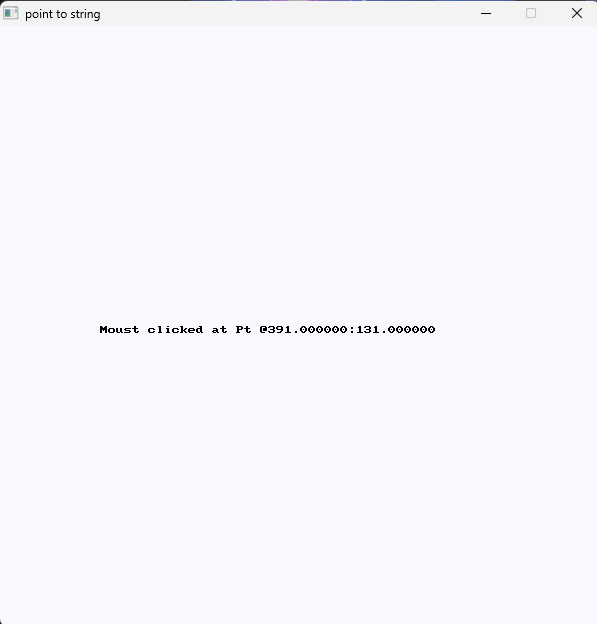
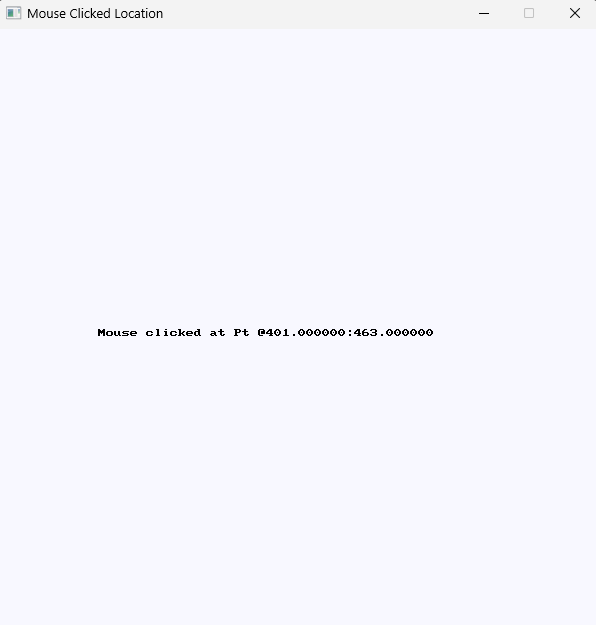
Updated OOP and reformatted code

diff --git a/public/usage-examples/geometry/point_to_string/point_to_string-1-simple-oop.cs b/public/usage-examples/geometry/point_to_string/point_to_string-1-simple-oop.cs
@@ -1,6 +1,5 @@
 using SplashKitSDK;
 
-
 namespace PointToString
 {
     public class Program
@@ -8,28 +7,29 @@ namespace PointToString
         public static void Main()
         {
             // Variable Declaration
-            string click = "Mouse clicked at ";
-            string mouse_pos = "";
+            string ClickMessage = "Mouse clicked at ";
+            string MousePositionText = "";
 
             // Open Window
-            SplashKit.OpenWindow("point to string", 600, 600);
-            SplashKit.ClearScreen(SplashKit.ColorGhostWhite());
+            Window WindowInstance = new Window("Mouse Clicked Location", 600, 600);
+            WindowInstance.Clear(Color.GhostWhite);
 
-            while(!SplashKit.QuitRequested())
+            while (!SplashKit.QuitRequested())
             {
-                // check for mouse click
-                if(SplashKit.MouseClicked(MouseButton.LeftButton))
+                // Check for mouse click
+                if (SplashKit.MouseClicked(MouseButton.LeftButton))
                 { 
-                    mouse_pos = SplashKit.PointToString(SplashKit.MousePosition());
-                    SplashKit.ClearScreen(SplashKit.ColorGhostWhite());
+                    MousePositionText = SplashKit.PointToString(SplashKit.MousePosition());
+                    WindowInstance.Clear(Color.GhostWhite);
                 }
 
                 // Print mouse position to screen
-                SplashKit.DrawText(click + mouse_pos,SplashKit.ColorBlack(),100,300);
+                WindowInstance.DrawText(ClickMessage + MousePositionText, Color.Black, 100, 300);
                 SplashKit.ProcessEvents();
-                SplashKit.RefreshScreen();
+                WindowInstance.Refresh();
             }
-            SplashKit.CloseAllWindows();
+
+            WindowInstance.Close();
         }
     }
 }

diff --git a/public/usage-examples/geometry/point_to_string/point_to_string-1-simple.cpp b/public/usage-examples/geometry/point_to_string/point_to_string-1-simple.cpp
@@ -3,27 +3,28 @@
 int main()
 {
     // Variable Declaration
-    string click = "Mouse clicked at ";
-    string mouse_pos;
+    string click_message = "Mouse clicked at ";
+    string mouse_position_text;
 
     // Open Window
-    open_window("point to string", 600, 600);
+    open_window("Mouse Clicked Location", 600, 600);
     clear_screen(COLOR_GHOST_WHITE);
 
-    while(!quit_requested())
+    while (!quit_requested())
     {
-        // check for mouse click
-        if(mouse_clicked(LEFT_BUTTON))
+        // Check for mouse click
+        if (mouse_clicked(LEFT_BUTTON))
         { 
-            mouse_pos = point_to_string(mouse_position());
+            mouse_position_text = point_to_string(mouse_position());
             clear_screen(COLOR_GHOST_WHITE);
         }
 
         // Print mouse position to screen
-        draw_text(click + mouse_pos,COLOR_BLACK,100,300);
+        draw_text(click_message + mouse_position_text, COLOR_BLACK, 100, 300);
         process_events();
         refresh_screen();
     }
+
     close_all_windows();
     return 0;
 }

diff --git a/public/usage-examples/geometry/point_to_string/point_to_string-1-simple-top-level.cs b/public/usage-examples/geometry/point_to_string/point_to_string-1-simple-top-level.cs
@@ -1,27 +1,27 @@
 using SplashKitSDK;
 using static SplashKitSDK.SplashKit;
 
-
 // Variable Declaration
-string click = "Mouse clicked at ";
-string mouse_pos = "";
+string ClickMessage = "Mouse clicked at ";
+string MousePositionText = "";
 
 // Open Window
-OpenWindow("point to string", 600, 600);
+OpenWindow("Mouse Clicked Location", 600, 600);
 ClearScreen(ColorGhostWhite());
 
-while(!QuitRequested())
+while (!QuitRequested())
 {
-    // check for mouse click
-    if(MouseClicked(MouseButton.LeftButton))
+    // Check for mouse click
+    if (MouseClicked(MouseButton.LeftButton))
     { 
-        mouse_pos = PointToString(MousePosition());
+        MousePositionText = PointToString(MousePosition());
         ClearScreen(ColorGhostWhite());
     }
 
     // Print mouse position to screen
-    DrawText(click + mouse_pos,ColorBlack(),100,300);
+    DrawText(ClickMessage + MousePositionText, ColorBlack(), 100, 300);
     ProcessEvents();
     RefreshScreen();
 }
+
 CloseAllWindows();

diff --git a/public/usage-examples/geometry/point_to_string/point_to_string-1-simple.py b/public/usage-examples/geometry/point_to_string/point_to_string-1-simple.py
@@ -1,26 +1,23 @@
 from splashkit import *
 
 # Variable Declaration
-click = "Mouse clicked at "
-mouse_pos = ""
+click_message = "Mouse clicked at "
+mouse_position_text = ""
 
 # Open Window
-open_window("point to string", 600, 600)
+open_window("Mouse Clicked Location", 600, 600)
 clear_screen(color_ghost_white())
 
 while not quit_requested():
 
     # check for mouse click
     if mouse_clicked(MouseButton.left_button):
-    
-        mouse_pos = point_to_string(mouse_position())
+        mouse_position_text = point_to_string(mouse_position())
         clear_screen(color_ghost_white())
     
-
     # Print mouse position to screen
-    draw_text_no_font_no_size(click + mouse_pos,color_black(),100,300)
+    draw_text_no_font_no_size(click_message + mouse_position_text, color_black(), 100, 300)
     process_events()
     refresh_screen()
 
 close_all_windows()
-
